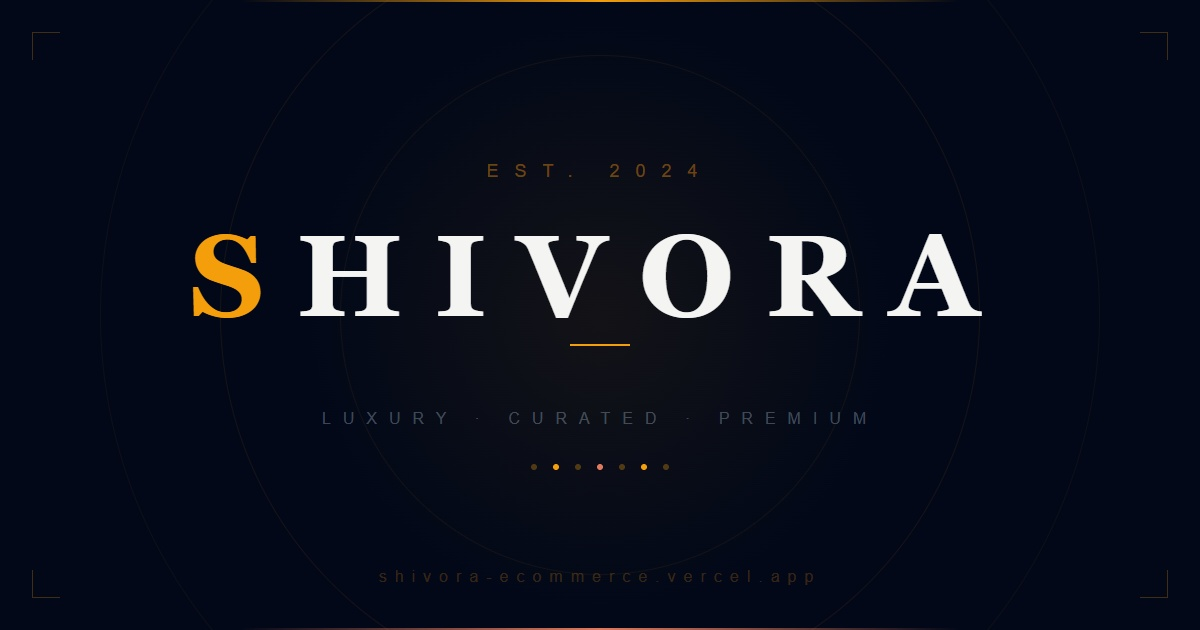
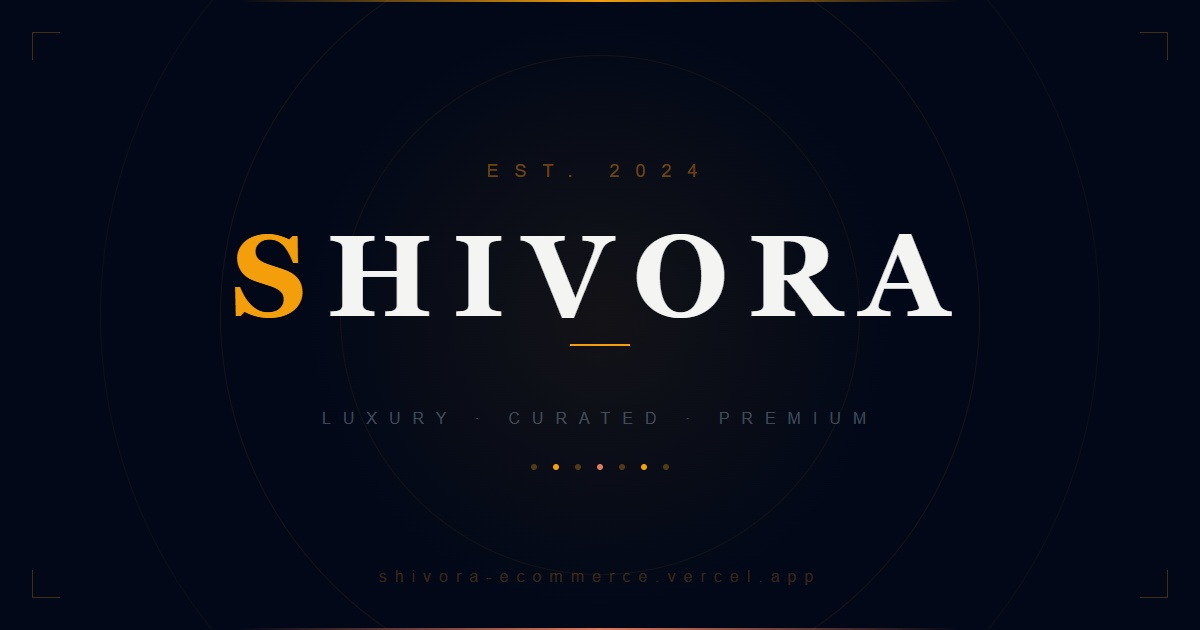
fix: og image crop and product og:image absolute URL

Changed region(s): [[0.1542, 0.3619, 0.8325, 0.5127]]

diff --git a/frontend/scripts/generate_og.js b/frontend/scripts/generate_og.js
@@ -1,0 +1,14 @@
+import puppeteer from 'puppeteer';
+import path from 'path';
+import { fileURLToPath } from 'url';
+const __dirname = path.dirname(fileURLToPath(import.meta.url));
+(async () => {
+  const browser = await puppeteer.launch({ args: ['--no-sandbox','--disable-setuid-sandbox'] });
+  const page = await browser.newPage();
+  await page.setViewport({ width: 1200, height: 630, deviceScaleFactor: 1 });
+  const filePath = 'file://' + path.resolve(__dirname, '../public/og-image.html');
+  await page.goto(filePath, { waitUntil: 'networkidle0' });
+  await page.screenshot({ path: path.resolve(__dirname, '../public/og-image.jpg'), type: 'jpeg', quality: 95 });
+  await browser.close();
+  console.log('OG image saved to frontend/public/og-image.jpg');
+})();

diff --git a/frontend/src/components/SEO.jsx b/frontend/src/components/SEO.jsx
@@ -8,6 +8,7 @@ export default function SEO({ title, description, image, url, type = 'website' }
   const siteUrl = 'https://shivora-ecommerce.vercel.app'
   const fullTitle = title ? `${title} | ${siteName}` : defaultTitle
   const fullUrl = url ? `${siteUrl}${url}` : siteUrl
+  const absoluteImage = !image ? defaultImage : image.startsWith('http') ? image : `${siteUrl}${image}`
 
   return (
     <Helmet>
@@ -16,14 +17,14 @@ export default function SEO({ title, description, image, url, type = 'website' }
       <meta name="robots" content="index, follow" />
       <meta property="og:title" content={fullTitle} />
       <meta property="og:description" content={description || defaultDescription} />
-      <meta property="og:image" content={image || defaultImage} />
+      <meta property="og:image" content={absoluteImage} />
       <meta property="og:url" content={fullUrl} />
       <meta property="og:type" content={type} />
       <meta property="og:site_name" content={siteName} />
       <meta name="twitter:card" content="summary_large_image" />
       <meta name="twitter:title" content={fullTitle} />
       <meta name="twitter:description" content={description || defaultDescription} />
-      <meta name="twitter:image" content={image || defaultImage} />
+      <meta name="twitter:image" content={absoluteImage} />
       <link rel="canonical" href={fullUrl} />
     </Helmet>
   )

diff --git a/frontend/public/og-image.html b/frontend/public/og-image.html
@@ -14,7 +14,7 @@ body{width:1200px;height:630px;overflow:hidden;background:#020818}
 .bot-line{position:absolute;bottom:0;left:0;right:0;height:2px;background:linear-gradient(90deg,transparent 0%,rgba(224,122,95,0) 20%,#E07A5F 50%,rgba(224,122,95,0) 80%,transparent 100%)}
 .content{position:relative;z-index:2;text-align:center;display:flex;flex-direction:column;align-items:center}
 .pre{font-family:Arial;font-size:18px;letter-spacing:16px;color:rgba(245,158,11,0.4);text-transform:uppercase;margin-bottom:36px}
-.brand{font-family:Georgia,serif;font-size:116px;font-weight:700;letter-spacing:32px;color:#F4F4F2;line-height:1;margin-bottom:32px;position:relative}
+.brand{font-family:Georgia,serif;font-size:116px;font-weight:700;letter-spacing:20px;color:#F4F4F2;line-height:1;margin-bottom:32px;position:relative}
 .brand::after{content:'';position:absolute;bottom:-12px;left:50%;transform:translateX(-50%);width:60px;height:2px;background:#F59E0B}
 .brand .s{color:#F59E0B}
 .since{font-family:Arial;font-size:16px;letter-spacing:12px;color:rgba(148,163,184,0.4);text-transform:uppercase;margin-top:44px}